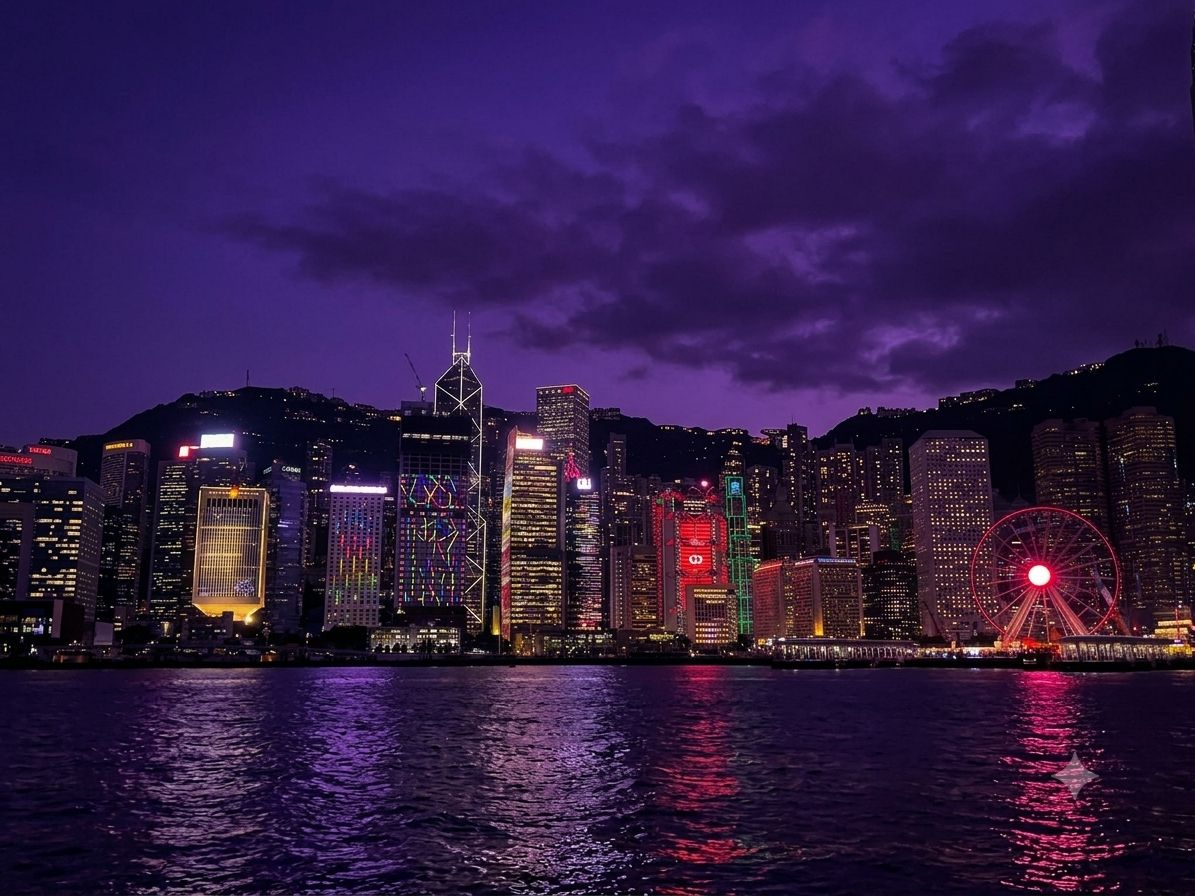
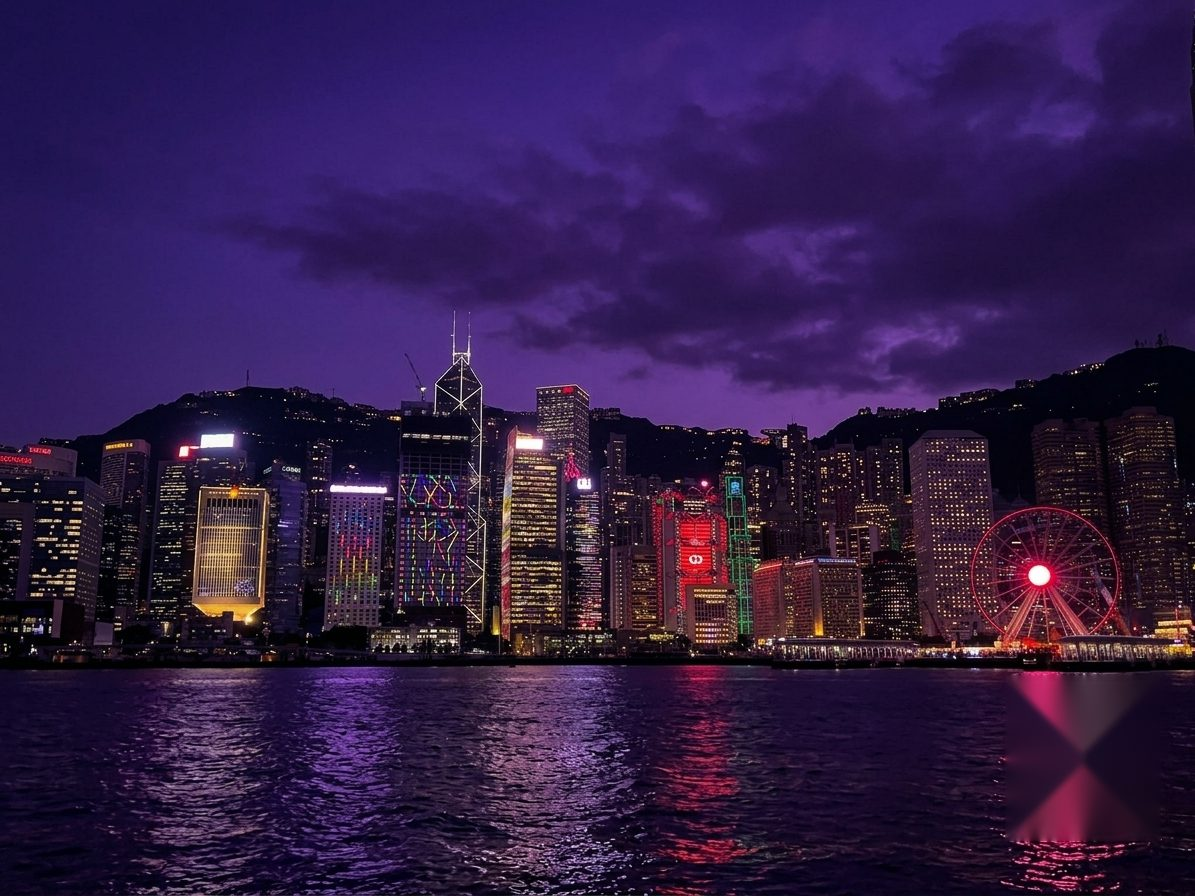
Speaking photo host removed via inpaint; harbour watermark removed; Ursa Major + Polaris in clear sky; caption dropped

Changed region(s): [[0.836, 0.75, 0.9598, 0.9375]]

diff --git a/index.html b/index.html
@@ -80,26 +80,7 @@
   .hero-veil{position:absolute;inset:0;background:
     linear-gradient(to top, rgba(24,15,46,0.45) 0%, rgba(30,21,55,0.12) 45%, rgba(24,15,46,0.05) 100%);
   }
-  .pin-caption{
-    position:absolute;left:14px;bottom:12px;z-index:2;
-    font-family:var(--disp);font-weight:700;font-size:0.78rem;letter-spacing:0.08em;
-    color:rgba(255,255,255,0.92);text-transform:uppercase;
-  }
-  .hero-stars{position:absolute;top:0;left:0;right:0;height:52%;pointer-events:none;opacity:0.8;
-    background-image:
-      radial-gradient(1.5px 1.5px at 8% 22%, #fff 45%, transparent 60%),
-      radial-gradient(1px 1px at 21% 9%, rgba(255,255,255,0.9) 45%, transparent 60%),
-      radial-gradient(1.5px 1.5px at 33% 30%, rgba(255,255,255,0.75) 45%, transparent 60%),
-      radial-gradient(1px 1px at 44% 14%, #fff 45%, transparent 60%),
-      radial-gradient(2px 2px at 58% 25%, rgba(255,255,255,0.85) 45%, transparent 60%),
-      radial-gradient(1px 1px at 66% 7%, rgba(255,255,255,0.8) 45%, transparent 60%),
-      radial-gradient(1.5px 1.5px at 76% 18%, #fff 45%, transparent 60%),
-      radial-gradient(1px 1px at 87% 10%, rgba(255,255,255,0.85) 45%, transparent 60%),
-      radial-gradient(1.5px 1.5px at 94% 28%, rgba(255,255,255,0.7) 45%, transparent 60%),
-      radial-gradient(1px 1px at 15% 40%, rgba(255,255,255,0.6) 45%, transparent 60%),
-      radial-gradient(1px 1px at 52% 42%, rgba(255,255,255,0.55) 45%, transparent 60%),
-      radial-gradient(1px 1px at 81% 38%, rgba(255,255,255,0.5) 45%, transparent 60%);
-  }
+  .hero-stars{position:absolute;left:5%;top:3%;width:42%;height:32%;pointer-events:none;opacity:0.9}
   .hero-stars-note{display:none}
   .eyebrow{
     display:inline-block;font-size:0.76rem;font-weight:600;letter-spacing:0.14em;
@@ -190,9 +171,34 @@
   </div>
   <div class="harbour-pin">
     <img class="hero-bg" src="img/harbour.jpg" alt="Victoria Harbour, Hong Kong, at purple dusk">
-    <div class="hero-stars" aria-hidden="true"></div>
+    <svg class="hero-stars" viewBox="0 0 100 70" aria-hidden="true">
+      <!-- Ursa Major (the Big Dipper) -->
+      <g stroke="rgba(255,255,255,0.38)" stroke-width="0.5" fill="none">
+        <polyline points="8,58 17,52 26,48 35,46"/>
+        <polyline points="35,46 37,58 48,60 47,45 35,46"/>
+      </g>
+      <!-- pointer stars line toward Polaris -->
+      <line x1="46.4" y1="41" x2="45.4" y2="12" stroke="rgba(255,255,255,0.22)" stroke-width="0.4" stroke-dasharray="1.4 2.2"/>
+      <g fill="#fff">
+        <circle cx="8"  cy="58" r="1.5" opacity="0.9"/>
+        <circle cx="17" cy="52" r="1.3" opacity="0.85"/>
+        <circle cx="26" cy="48" r="1.4" opacity="0.9"/>
+        <circle cx="35" cy="46" r="1.2" opacity="0.8"/>
+        <circle cx="37" cy="58" r="1.4" opacity="0.85"/>
+        <circle cx="48" cy="60" r="1.5" opacity="0.9"/>
+        <circle cx="47" cy="45" r="1.6" opacity="0.95"/>
+      </g>
+      <!-- Polaris -->
+      <g>
+        <circle cx="45" cy="6" r="3.2" fill="rgba(255,255,255,0.18)"/>
+        <circle cx="45" cy="6" r="1.9" fill="#fff"/>
+        <line x1="45" y1="1.4" x2="45" y2="10.6" stroke="rgba(255,255,255,0.55)" stroke-width="0.4"/>
+        <line x1="40.4" y1="6" x2="49.6" y2="6" stroke="rgba(255,255,255,0.55)" stroke-width="0.4"/>
+      </g>
+      <text x="52" y="7.5" font-family="ui-monospace,Menlo,monospace" font-size="3" letter-spacing="0.6" fill="rgba(255,255,255,0.6)">POLARIS</text>
+      <text x="14" y="67" font-family="ui-monospace,Menlo,monospace" font-size="3" letter-spacing="0.6" fill="rgba(255,255,255,0.55)">URSA MAJOR</text>
+    </svg>
     <div class="hero-veil"></div>
-    <span class="pin-caption">Victoria Harbour · Hong Kong</span>
   </div>
 </header>
 